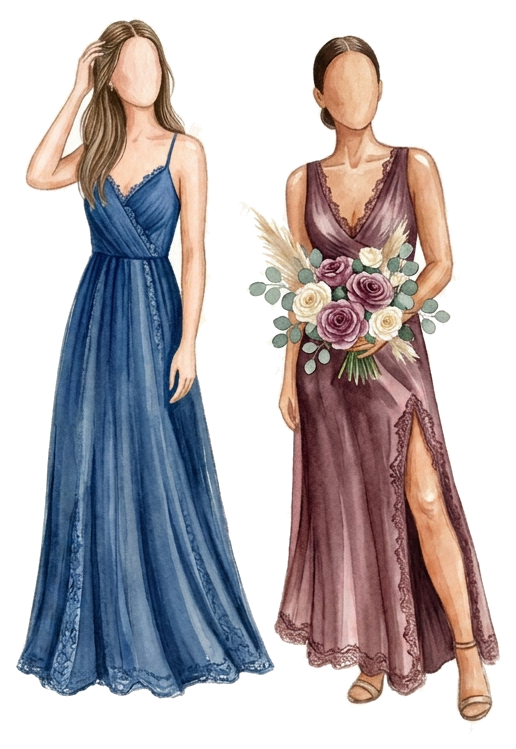
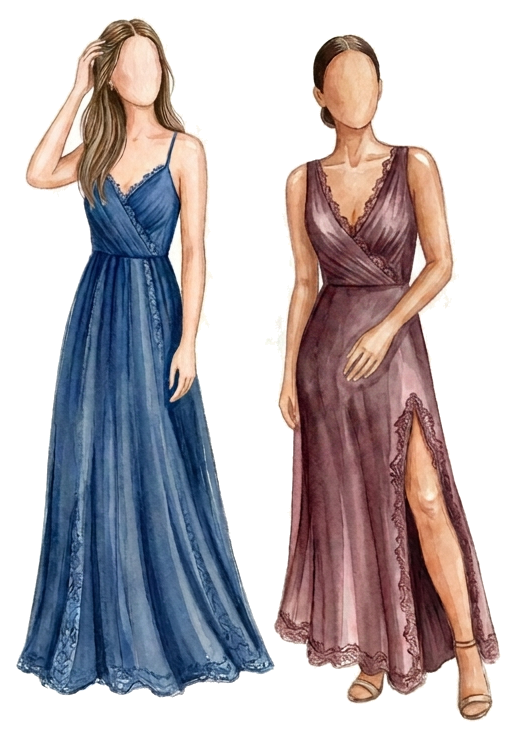
fix: swap women's dress code illustration for updated version
Same background removal / crop treatment as the men's swap.

diff --git a/src/components/DressCode.tsx b/src/components/DressCode.tsx
@@ -106,7 +106,7 @@ export function DressCode() {
               src="/images/wedding/dresscode-mulheres-transparent.png"
               alt="Sugestões de traje esporte fino para convidadas: vestido azul-marinho ou vinho"
               width={516}
-              height={749}
+              height={737}
               className="mx-auto h-64 w-auto object-contain sm:h-72 md:h-80"
             />
             <p className="eyebrow mt-6 text-gold">{dressCode.forHer.label}</p>
